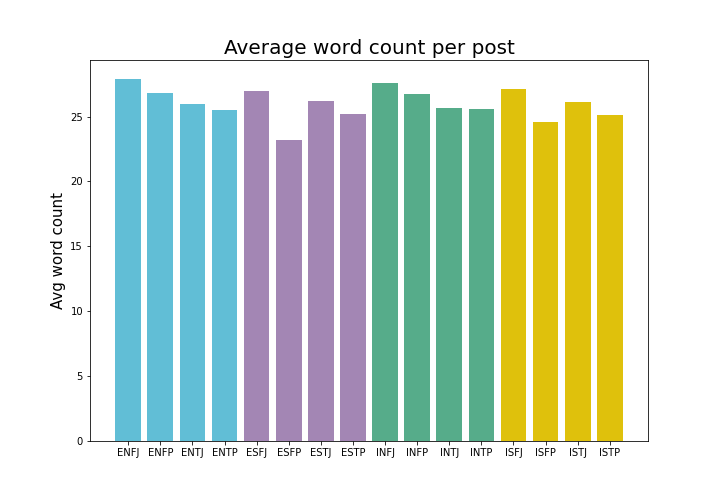
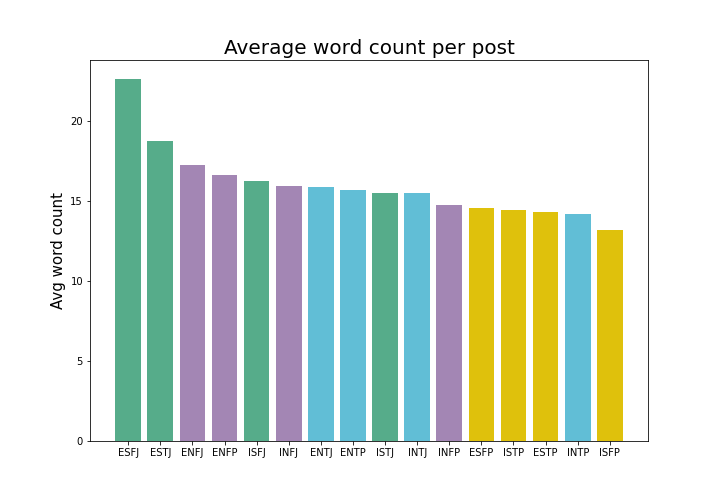
Add description to most of plots. Update some images

diff --git a/templates/analysis.html b/templates/analysis.html
@@ -58,36 +58,60 @@
 <div class="container gallery-container">
     <div class="tz-gallery">
         <div class="row">
-            <div class="col-sm-6 col-md-4">
+            <div class="col-sm-2 col-md-3">
+                <div class="thumbnail">
+                    
+                </div>
+            </div>
+            <div class="col-sm-8 col-md-6">
                 <div class="thumbnail">
                     <a class="lightbox" href="../static/images/type_hist.png">
-                        <img src="../static/images/type_hist.png" width="320">
+                        <img src="../static/images/type_hist.png" width="500">
                     </a>
                     <div class="caption">
                         <h3>Distribution of Personality Types</h3>
-                        <p>Lorem ipsum dolor sit amet, consectetur adipisicing elit, sed do eiusmod tempor incididunt ut labore et dolore magna aliqua.</p>
+                        <p>Our dataset does not have equal representation of all 16 personalities. 
+                            </p>
                     </div>
+                </div>
+            </div>
+            <div class="col-sm-2 col-md-3">
+                <div class="thumbnail">
+                    
                 </div>
             </div>
             <div class="col-sm-6 col-md-4">
                 <div class="thumbnail">
                     <a class="lightbox" href="../static/images/avg_words.png">
-                        <img src="../static/images/avg_words.png" width="320">
+                        <img src="../static/images/avg_words.png" width="350" height="300">
                     </a>
                     <div class="caption">
                         <h3>Avg. Word Count per Post</h3>
-                        <p>Lorem ipsum dolor sit amet, consectetur adipisicing elit, sed do eiusmod tempor incididunt ut labore et dolore magna aliqua.</p>
+                        <p>
+                            It looks like all personalities write an average of 15 words per forum post.
+                        </p>
                     </div>
                 </div>
             </div>
             <div class="col-sm-6 col-md-4">
                 <div class="thumbnail">
-                    <a class="lightbox" href="../static/images/box_compsent.png">
-                        <img src="../static/images/box_compsent.png" width="290" height="225">
+                    <a class="lightbox" href="../static/images/box_wordcount.png">
+                        <img src="../static/images/box_wordcount.png" width="300">
                     </a>
                     <div class="caption">
-                        <h3>Compound Sentiment by Type</h3>
-                        <p>Lorem ipsum dolor sit amet, consectetur adipisicing elit, sed do eiusmod tempor incididunt ut labore et dolore magna aliqua.</p>
+                        <h3>Word Count by Type</h3>
+                        <p>ESFJ and ESTJ always have the most to say.</p>
+                    </div>
+                </div>
+            </div>
+            <div class="col-sm-6 col-md-4">
+                <div class="thumbnail">
+                    <a class="lightbox" href="../static/images/word_hist.png">
+                        <img src="../static/images/word_hist.png" width="350" height="300">
+                    </a>
+                    <div class="caption">
+                        <h3>Word Count Histogram</h3>
+                        <p>It's not a nice bell, but you can see people either don't say much, or say alot.</p>
                     </div>
                 </div>
             </div>
@@ -98,7 +122,7 @@
                     </a>
                     <div class="caption">
                         <h3>Exclamation Points by Type</h3>
-                        <p>Lorem ipsum dolor sit amet, consectetur adipisicing elit, sed do eiusmod tempor incididunt ut labore et dolore magna aliqua.</p>
+                        <p>ENF people feel strongly and need to express it with extra bangs!</p>
                     </div>
                 </div>
             </div>
@@ -109,18 +133,18 @@
                     </a>
                     <div class="caption">
                         <h3>Emoji by Type</h3>
-                        <p>Lorem ipsum dolor sit amet, consectetur adipisicing elit, sed do eiusmod tempor incididunt ut labore et dolore magna aliqua.</p>
+                        <p>ENFP also uses emojis to express what they're feeling. ITSJ seems to like using them as well.</p>
                     </div>
                 </div>
             </div>
             <div class="col-sm-6 col-md-4">
                 <div class="thumbnail">
-                    <a class="lightbox" href="../static/images/box_negsent.png">
-                        <img src="../static/images/box_negsent.png" width="320">
+                    <a class="lightbox" href="../static/images/link_hist.png">
+                        <img src="../static/images/link_hist.png" width="350" height="300">
                     </a>
                     <div class="caption">
-                        <h3>Negative Sentiment by Type</h3>
-                        <p>Lorem ipsum dolor sit amet, consectetur adipisicing elit, sed do eiusmod tempor incididunt ut labore et dolore magna aliqua.</p>
+                        <h3>Link Count Histogram</h3>
+                        <p>Not many posts include links, though there were enough for us to take a closer look.</p>
                     </div>
                 </div>
             </div>
@@ -137,44 +161,22 @@
             </div>
             <div class="col-sm-6 col-md-4">
                 <div class="thumbnail">
-                    <a class="lightbox" href="../static/images/box_qm.png">
-                        <img src="../static/images/box_qm.png" width="320">
+                    <a class="lightbox" href="../static/images/box_compsent.png">
+                        <img src="../static/images/box_compsent.png" width="320">
                     </a>
                     <div class="caption">
-                        <h3>Question Marks by Type</h3>
-                        <p>Lorem ipsum dolor sit amet, consectetur adipisicing elit, sed do eiusmod tempor incididunt ut labore et dolore magna aliqua.</p>
+                        <h3>Compound Sentiment by Type</h3>
+                        <p>Compound sentiment is hard to explain. What is this?!?</p>
                     </div>
                 </div>
             </div>
             <div class="col-sm-6 col-md-4">
                 <div class="thumbnail">
-                    <a class="lightbox" href="../static/images/box_wordcount.png">
-                        <img src="../static/images/box_wordcount.png" width="320">
+                    <a class="lightbox" href="../static/images/box_negsent.png">
+                        <img src="../static/images/box_negsent.png" width="320">
                     </a>
                     <div class="caption">
-                        <h3>Word Count by Type</h3>
-                        <p>Lorem ipsum dolor sit amet, consectetur adipisicing elit, sed do eiusmod tempor incididunt ut labore et dolore magna aliqua.</p>
-                    </div>
-                </div>
-            </div>
-            <div class="col-sm-6 col-md-4">
-                <div class="thumbnail">
-                    <a class="lightbox" href="../static/images/link_hist.png">
-                        <img src="../static/images/link_hist.png" width="320">
-                    </a>
-                    <div class="caption">
-                        <h3>Link Count Histogram</h3>
-                        <p>Lorem ipsum dolor sit amet, consectetur adipisicing elit, sed do eiusmod tempor incididunt ut labore et dolore magna aliqua.</p>
-                    </div>
-                </div>
-            </div>
-            <div class="col-sm-6 col-md-4">
-                <div class="thumbnail">
-                    <a class="lightbox" href="../static/images/word_hist.png">
-                        <img src="../static/images/word_hist.png" width="320">
-                    </a>
-                    <div class="caption">
-                        <h3>Word Count Histogram</h3>
+                        <h3>Negative Sentiment by Type</h3>
                         <p>Lorem ipsum dolor sit amet, consectetur adipisicing elit, sed do eiusmod tempor incididunt ut labore et dolore magna aliqua.</p>
                     </div>
                 </div>
